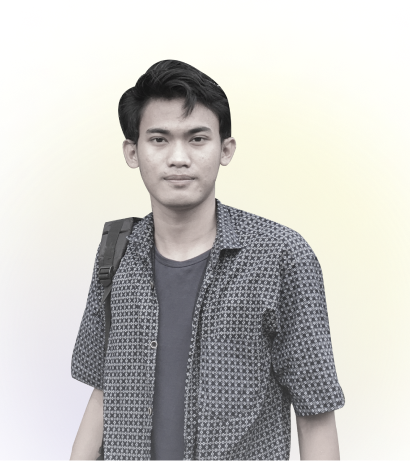
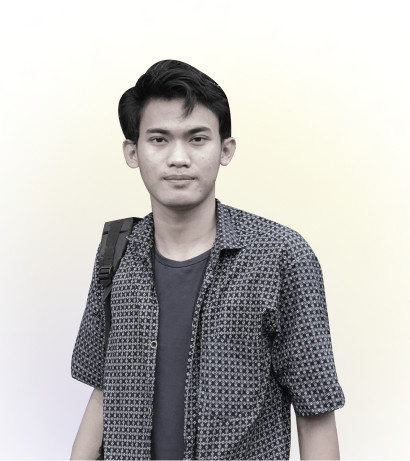
Perbaiki blur dengan .png

Changed region(s): [[0.1756, 0.5163, 0.8488, 1.0]]

diff --git a/responsive.css b/responsive.css
@@ -3,9 +3,9 @@
   body {
     font-family: "Poppins", sans-serif;
     background-color: #e5e5e5;
-    background-image: none;
-    /* background-repeat: no-repeat;
-    background-position: center; */
+    background-image: url(img/Blur.png);
+    background-repeat: no-repeat;
+    background-position: left;
   }
   /* Akhir Body */
   /* Menu Navigasi */
@@ -34,9 +34,9 @@
   body {
     font-family: "Poppins", sans-serif;
     background-color: #e5e5e5;
-    background-image: none;
-    /* background-repeat: no-repeat;
-    background-position: center; */
+    background-image: url(img/Blur.png);
+    background-repeat: no-repeat;
+    background-position: left;
   }
   /* Akhir Body */
   /* Menu Navigasi */

diff --git a/custom.css b/custom.css
@@ -1,7 +1,7 @@
 body {
   font-family: "Poppins", sans-serif;
   background-color: #e5e5e5;
-  background-image: url(img/Blur.svg);
+  background-image: url(img/Blur.png);
   background-repeat: no-repeat;
   background-position: center;
 }
